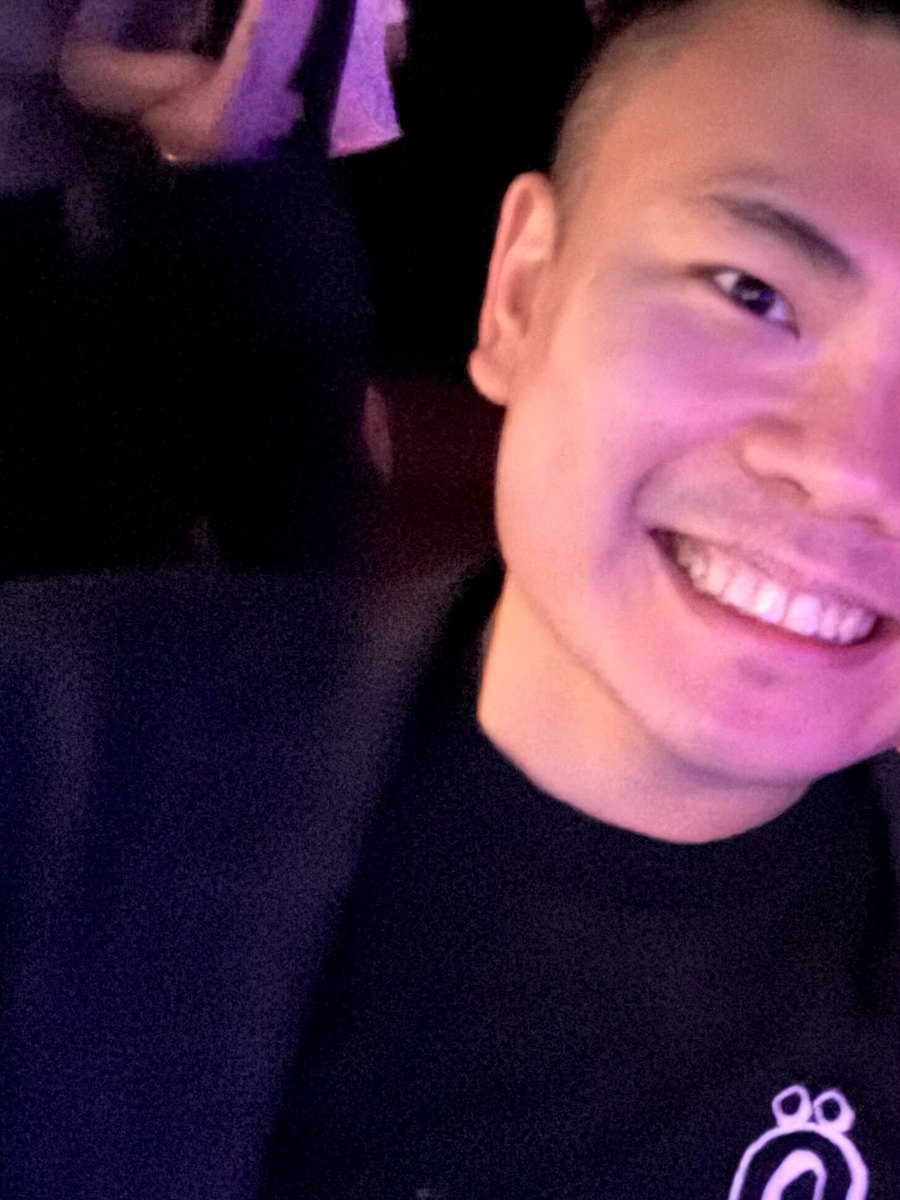
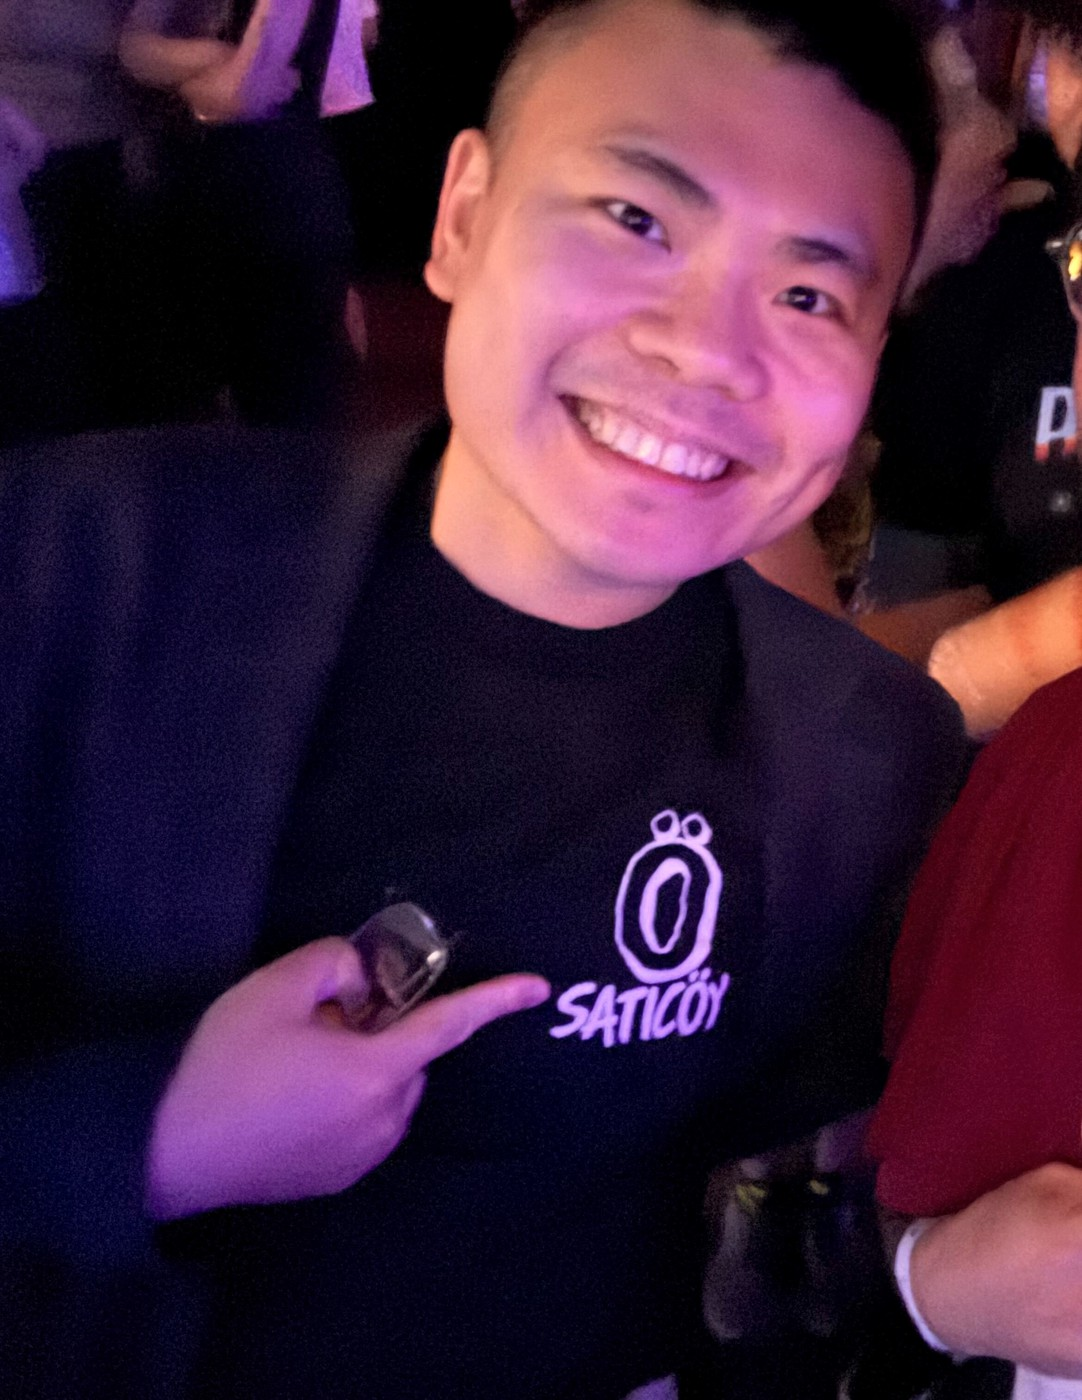
Loosen hero portrait crop so the full face shows.
Widen the left-person crop and stop CSS object-fit cover from clipping the photo a second time.

diff --git a/styles.css b/styles.css
@@ -219,14 +219,15 @@ a:hover {
   display: block;
   width: 100%;
   height: auto;
-  aspect-ratio: 3 / 3.85;
-  object-fit: cover;
-  object-position: center 18%;
+  max-height: min(72vh, 36rem);
+  object-fit: contain;
+  object-position: center top;
   border-radius: 0.35rem;
   box-shadow:
     0 0 0 1px rgba(232, 238, 244, 0.1),
     0 28px 60px rgba(0, 0, 0, 0.45);
   filter: saturate(0.92) contrast(1.04);
+  background: rgba(20, 27, 36, 0.55);
 }
 
 .hero-scroll {

diff --git a/index.html b/index.html
@@ -61,8 +61,8 @@
           <img
             src="assets/portrait.jpg"
             alt="Huang-Cheng Chou (周惶振)"
-            width="900"
-            height="1154"
+            width="1082"
+            height="1400"
             loading="eager"
             decoding="async"
           />